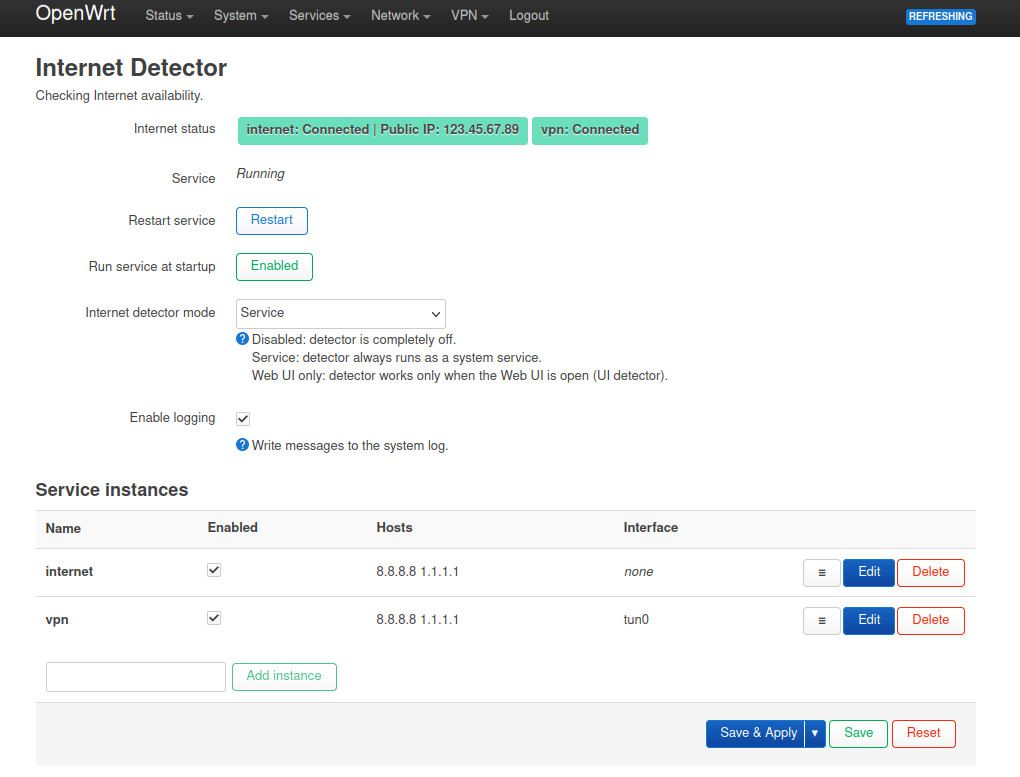
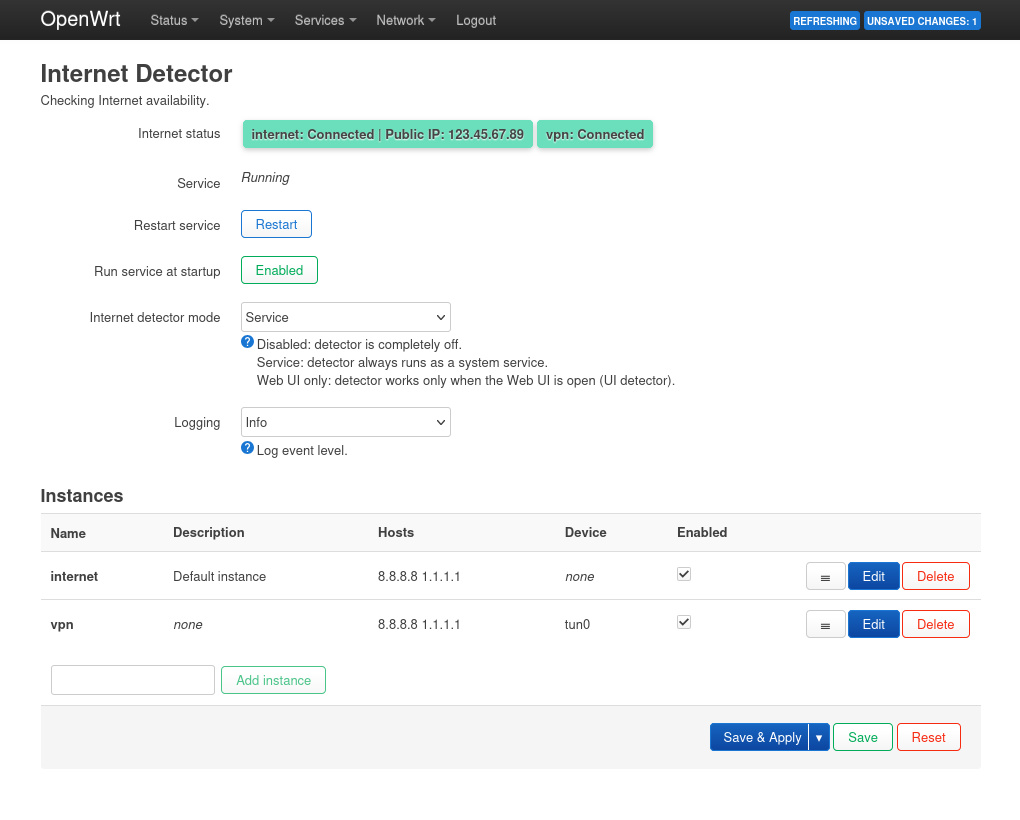
update 2025-09-05 04:23:39

diff --git a/luci-app-internet-detector/luci-app-internet-detector/htdocs/luci-static/resources/view/internet-detector.js b/luci-app-internet-detector/luci-app-internet-detector/htdocs/luci-static/resources/view/internet-detector.js
@@ -762,14 +762,11 @@ return view.extend({
 			list.value(2000, '2 '   + _('sec'));
 		}
 
-		// enabled
-		o = s.taboption('main', form.Flag, 'enabled',
-			_('Enabled'),
-		);
-		o.rmempty   = false;
-		o.default   = '1';
-		o.editable  = true;
-		o.modalonly = false;
+		// description
+		o = s.taboption('main', form.Value, 'description',
+			_("Description"));
+		o.datatype  = 'maxlength(30)';
+		o.modalonly = null;
 
 		// hosts
 		o = s.taboption('main', form.DynamicList,
@@ -868,6 +865,15 @@ return view.extend({
 		o.value(9,  '9 ' + _('sec'));
 		o.value(10, '10 ' + _('sec'));
 		o.default = '2';
+
+		// enabled
+		o = s.taboption('main', form.Flag, 'enabled',
+			_('Enabled'),
+		);
+		o.rmempty   = false;
+		o.default   = '1';
+		o.editable  = true;
+		o.modalonly = false;
 
 
 		/* Modules */

diff --git a/luci-app-internet-detector/README.md b/luci-app-internet-detector/README.md
@@ -20,22 +20,22 @@ Internet-detector is an application for checking the availability of the Interne
 ## Installation notes:
 
     opkg update
-    wget --no-check-certificate -O /tmp/internet-detector_1.6.3-r1_all.ipk https://github.com/gSpotx2f/packages-openwrt/raw/master/current/internet-detector_1.6.3-r1_all.ipk
-    opkg install /tmp/internet-detector_1.6.3-r1_all.ipk
-    rm /tmp/internet-detector_1.6.3-r1_all.ipk
+    wget --no-check-certificate -O /tmp/internet-detector_1.6.4-r1_all.ipk https://github.com/gSpotx2f/packages-openwrt/raw/master/current/internet-detector_1.6.4-r1_all.ipk
+    opkg install /tmp/internet-detector_1.6.4-r1_all.ipk
+    rm /tmp/internet-detector_1.6.4-r1_all.ipk
     service internet-detector start
     service internet-detector enable
 
-    wget --no-check-certificate -O /tmp/luci-app-internet-detector_1.6.3-r1_all.ipk https://github.com/gSpotx2f/packages-openwrt/raw/master/current/luci-app-internet-detector_1.6.3-r1_all.ipk
-    opkg install /tmp/luci-app-internet-detector_1.6.3-r1_all.ipk
-    rm /tmp/luci-app-internet-detector_1.6.3-r1_all.ipk
+    wget --no-check-certificate -O /tmp/luci-app-internet-detector_1.6.4-r1_all.ipk https://github.com/gSpotx2f/packages-openwrt/raw/master/current/luci-app-internet-detector_1.6.4-r1_all.ipk
+    opkg install /tmp/luci-app-internet-detector_1.6.4-r1_all.ipk
+    rm /tmp/luci-app-internet-detector_1.6.4-r1_all.ipk
     service rpcd restart
 
 i18n-ru:
 
-    wget --no-check-certificate -O /tmp/luci-i18n-internet-detector-ru_1.6.3-r1_all.ipk https://github.com/gSpotx2f/packages-openwrt/raw/master/current/luci-i18n-internet-detector-ru_1.6.3-r1_all.ipk
-    opkg install /tmp/luci-i18n-internet-detector-ru_1.6.3-r1_all.ipk
-    rm /tmp/luci-i18n-internet-detector-ru_1.6.3-r1_all.ipk
+    wget --no-check-certificate -O /tmp/luci-i18n-internet-detector-ru_1.6.4-r1_all.ipk https://github.com/gSpotx2f/packages-openwrt/raw/master/current/luci-i18n-internet-detector-ru_1.6.4-r1_all.ipk
+    opkg install /tmp/luci-i18n-internet-detector-ru_1.6.4-r1_all.ipk
+    rm /tmp/luci-i18n-internet-detector-ru_1.6.4-r1_all.ipk
 
 ## Screenshots:
 
@@ -47,9 +47,9 @@ i18n-ru:
 
 **Dependences:** modemmanager.
 
-    wget --no-check-certificate -O /tmp/internet-detector-mod-modem-restart_1.6.3-r1_all.ipk https://github.com/gSpotx2f/packages-openwrt/raw/master/current/internet-detector-mod-modem-restart_1.6.3-r1_all.ipk
-    opkg install /tmp/internet-detector-mod-modem-restart_1.6.3-r1_all.ipk
-    rm /tmp/internet-detector-mod-modem-restart_1.6.3-r1_all.ipk
+    wget --no-check-certificate -O /tmp/internet-detector-mod-modem-restart_1.6.4-r1_all.ipk https://github.com/gSpotx2f/packages-openwrt/raw/master/current/internet-detector-mod-modem-restart_1.6.4-r1_all.ipk
+    opkg install /tmp/internet-detector-mod-modem-restart_1.6.4-r1_all.ipk
+    rm /tmp/internet-detector-mod-modem-restart_1.6.4-r1_all.ipk
     service internet-detector restart
 
 ![](https://github.com/gSpotx2f/luci-app-internet-detector/blob/master/screenshots/04.jpg)
@@ -58,9 +58,9 @@ i18n-ru:
 
 **Dependences:** mailsend.
 
-    wget --no-check-certificate -O /tmp/internet-detector-mod-email_1.6.3-r1_all.ipk https://github.com/gSpotx2f/packages-openwrt/raw/master/current/internet-detector-mod-email_1.6.3-r1_all.ipk
-    opkg install /tmp/internet-detector-mod-email_1.6.3-r1_all.ipk
-    rm /tmp/internet-detector-mod-email_1.6.3-r1_all.ipk
+    wget --no-check-certificate -O /tmp/internet-detector-mod-email_1.6.4-r1_all.ipk https://github.com/gSpotx2f/packages-openwrt/raw/master/current/internet-detector-mod-email_1.6.4-r1_all.ipk
+    opkg install /tmp/internet-detector-mod-email_1.6.4-r1_all.ipk
+    rm /tmp/internet-detector-mod-email_1.6.4-r1_all.ipk
     service internet-detector restart
 
 ![](https://github.com/gSpotx2f/luci-app-internet-detector/blob/master/screenshots/05.jpg)
@@ -69,9 +69,9 @@ i18n-ru:
 
 **Dependences:** curl.
 
-    wget --no-check-certificate -O /tmp/internet-detector-mod-telegram_1.6.3-r1_all.ipk https://github.com/gSpotx2f/packages-openwrt/raw/master/current/internet-detector-mod-telegram_1.6.3-r1_all.ipk
-    opkg install /tmp/internet-detector-mod-telegram_1.6.3-r1_all.ipk
-    rm /tmp/internet-detector-mod-telegram_1.6.3-r1_all.ipk
+    wget --no-check-certificate -O /tmp/internet-detector-mod-telegram_1.6.4-r1_all.ipk https://github.com/gSpotx2f/packages-openwrt/raw/master/current/internet-detector-mod-telegram_1.6.4-r1_all.ipk
+    opkg install /tmp/internet-detector-mod-telegram_1.6.4-r1_all.ipk
+    rm /tmp/internet-detector-mod-telegram_1.6.4-r1_all.ipk
     service internet-detector restart
 
 ![](https://github.com/gSpotx2f/luci-app-internet-detector/blob/master/screenshots/06.jpg)
